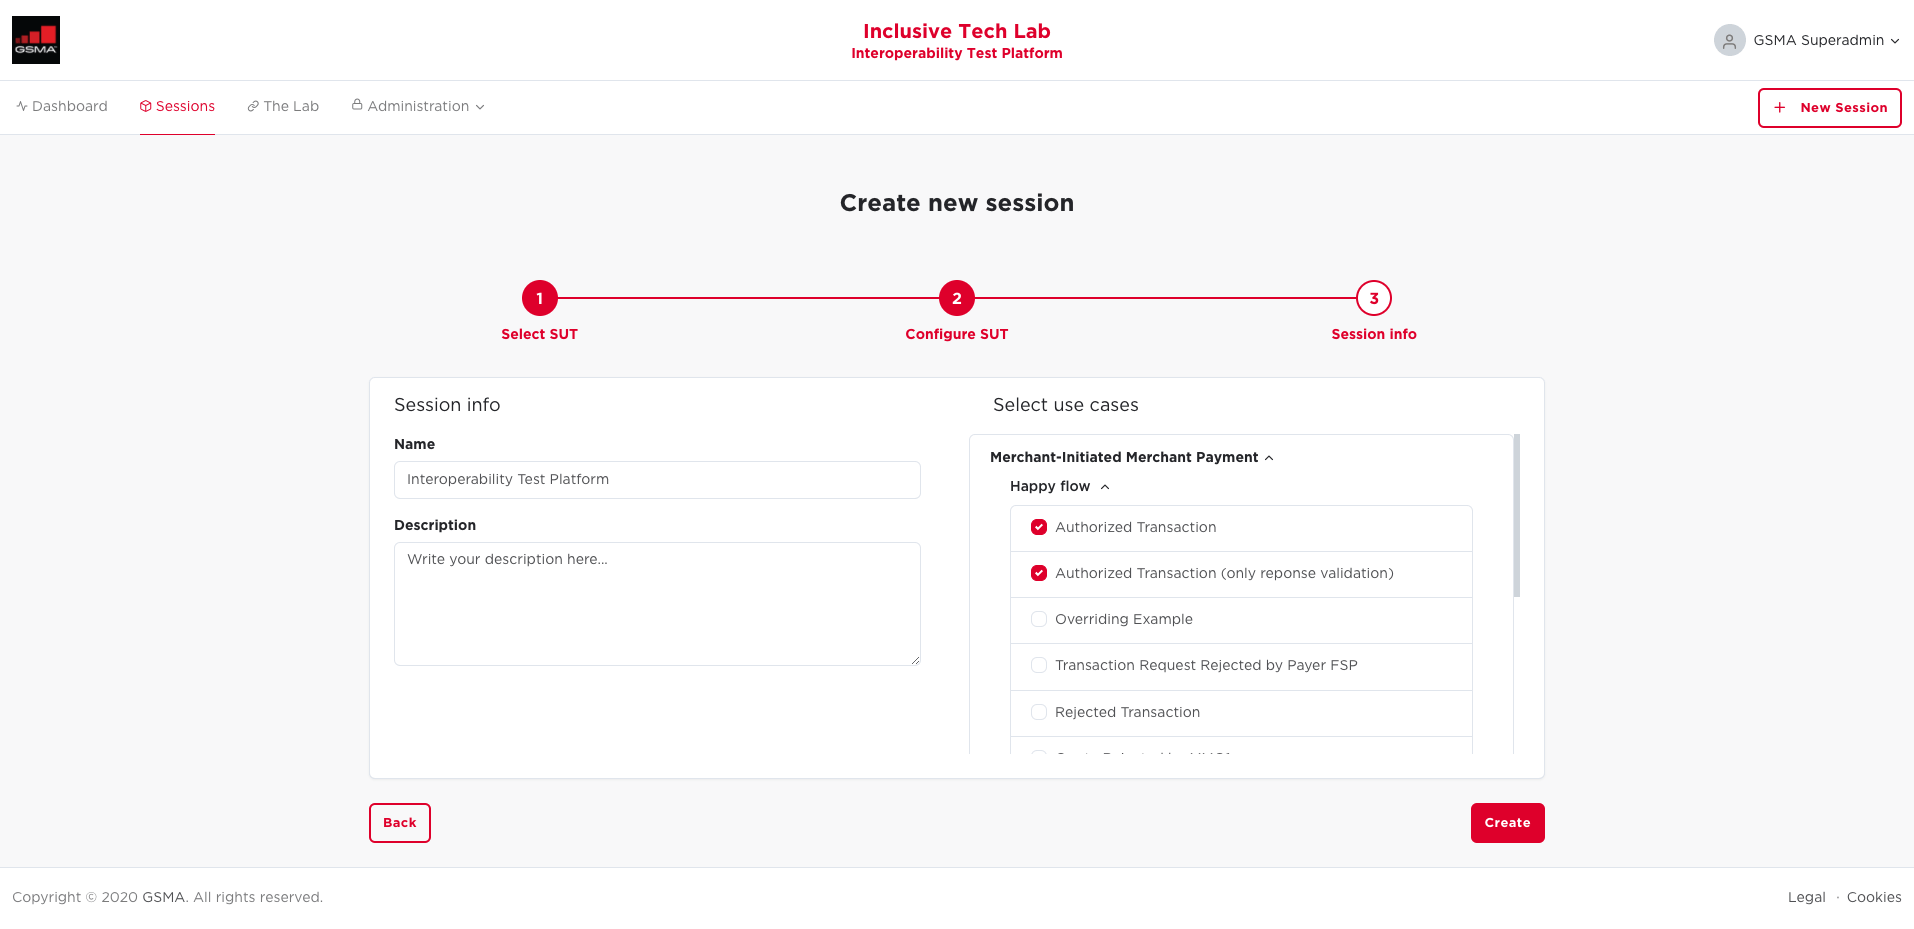
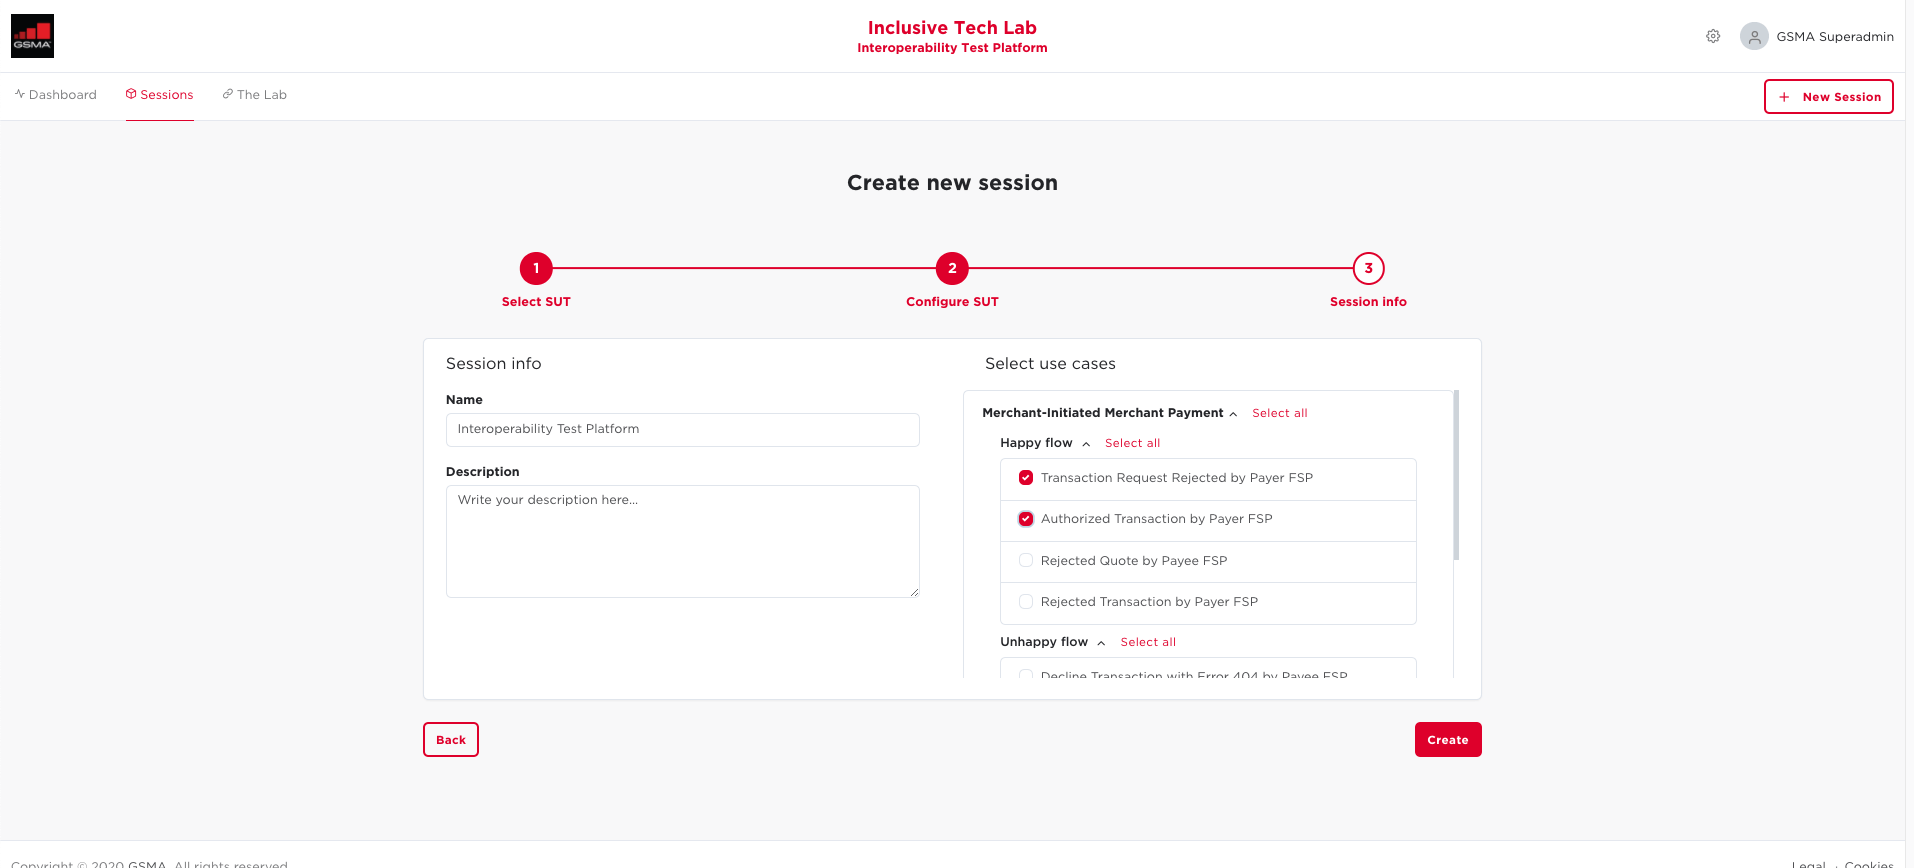
Update create session screenshots

diff --git a/src/resources/js/tutorials/tutorials-create-session-demo.js b/src/resources/js/tutorials/tutorials-create-session-demo.js
@@ -5,24 +5,17 @@ $('.demo1').one('click', function() {
         ['../../images/tutorials/create-session/select_sut_2.png', [535, 385], "Let's select Service Provider", true],
         ['../../images/tutorials/create-session/select_sut_3.png', [1100, 473], 'Press Next', true],
         ['../../images/tutorials/create-session/configure_sut.png', [1100, 422], 'After configuration, press Next', true],
-        ['../../images/tutorials/create-session/session_info.png', [742, 355], 'Select use cases by ticking the corresponding box', true],
-        ['../../images/tutorials/create-session/session_info_2.png', [742, 395], 'Select use cases by ticking the corresponding box', true],
-        ['../../images/tutorials/create-session/session_info_3.png', [742, 460], 'Select use cases by ticking the corresponding box', true],
-        ['../../images/tutorials/create-session/session_info_4.png', [1093, 580], 'Press Create when you are finished', true],
-        ['../../images/tutorials/create-session/session_created.png', [47, 243], 'You can access use cases here', true],
-        ['../../images/tutorials/create-session/usecase_page.png', [1335, 40], 'Click here to start the demo again', true]
+        ['../../images/tutorials/create-session/session_info.png', [732, 325], 'Select use cases by ticking the corresponding box', true],
+        ['../../images/tutorials/create-session/session_info_2.png', [732, 355], 'Select use cases by ticking the corresponding box', true],
+        ['../../images/tutorials/create-session/session_info_3.png', [732, 410], 'Select use cases by ticking the corresponding box', true],
+        ['../../images/tutorials/create-session/session_info_4.png', [1050, 515], 'Press Create when you are finished', true],
+        ['../../images/tutorials/create-session/session_created.png', [47, 243], 'Your session has now been created and use cases can be accessed on the left.', true],
     ];
 
     var step = 0;
 
     function demo1_adjusted(length) {
-        if ($(".create-session-screenshot[src*='session_info']").length == 1) { // height of these screenshots slightly higher
-            var originalHeight = 699;
-        } else if ($(".create-session-screenshot[src*='usecase_page']").length == 1) {
-            var originalHeight = 940;
-        } else {
-            var originalHeight = 653;
-        }
+        var originalHeight = 653;
         var currentHeight = $('.create-session-screenshot').height();
         var ratio = currentHeight / originalHeight;
         return length * ratio;
